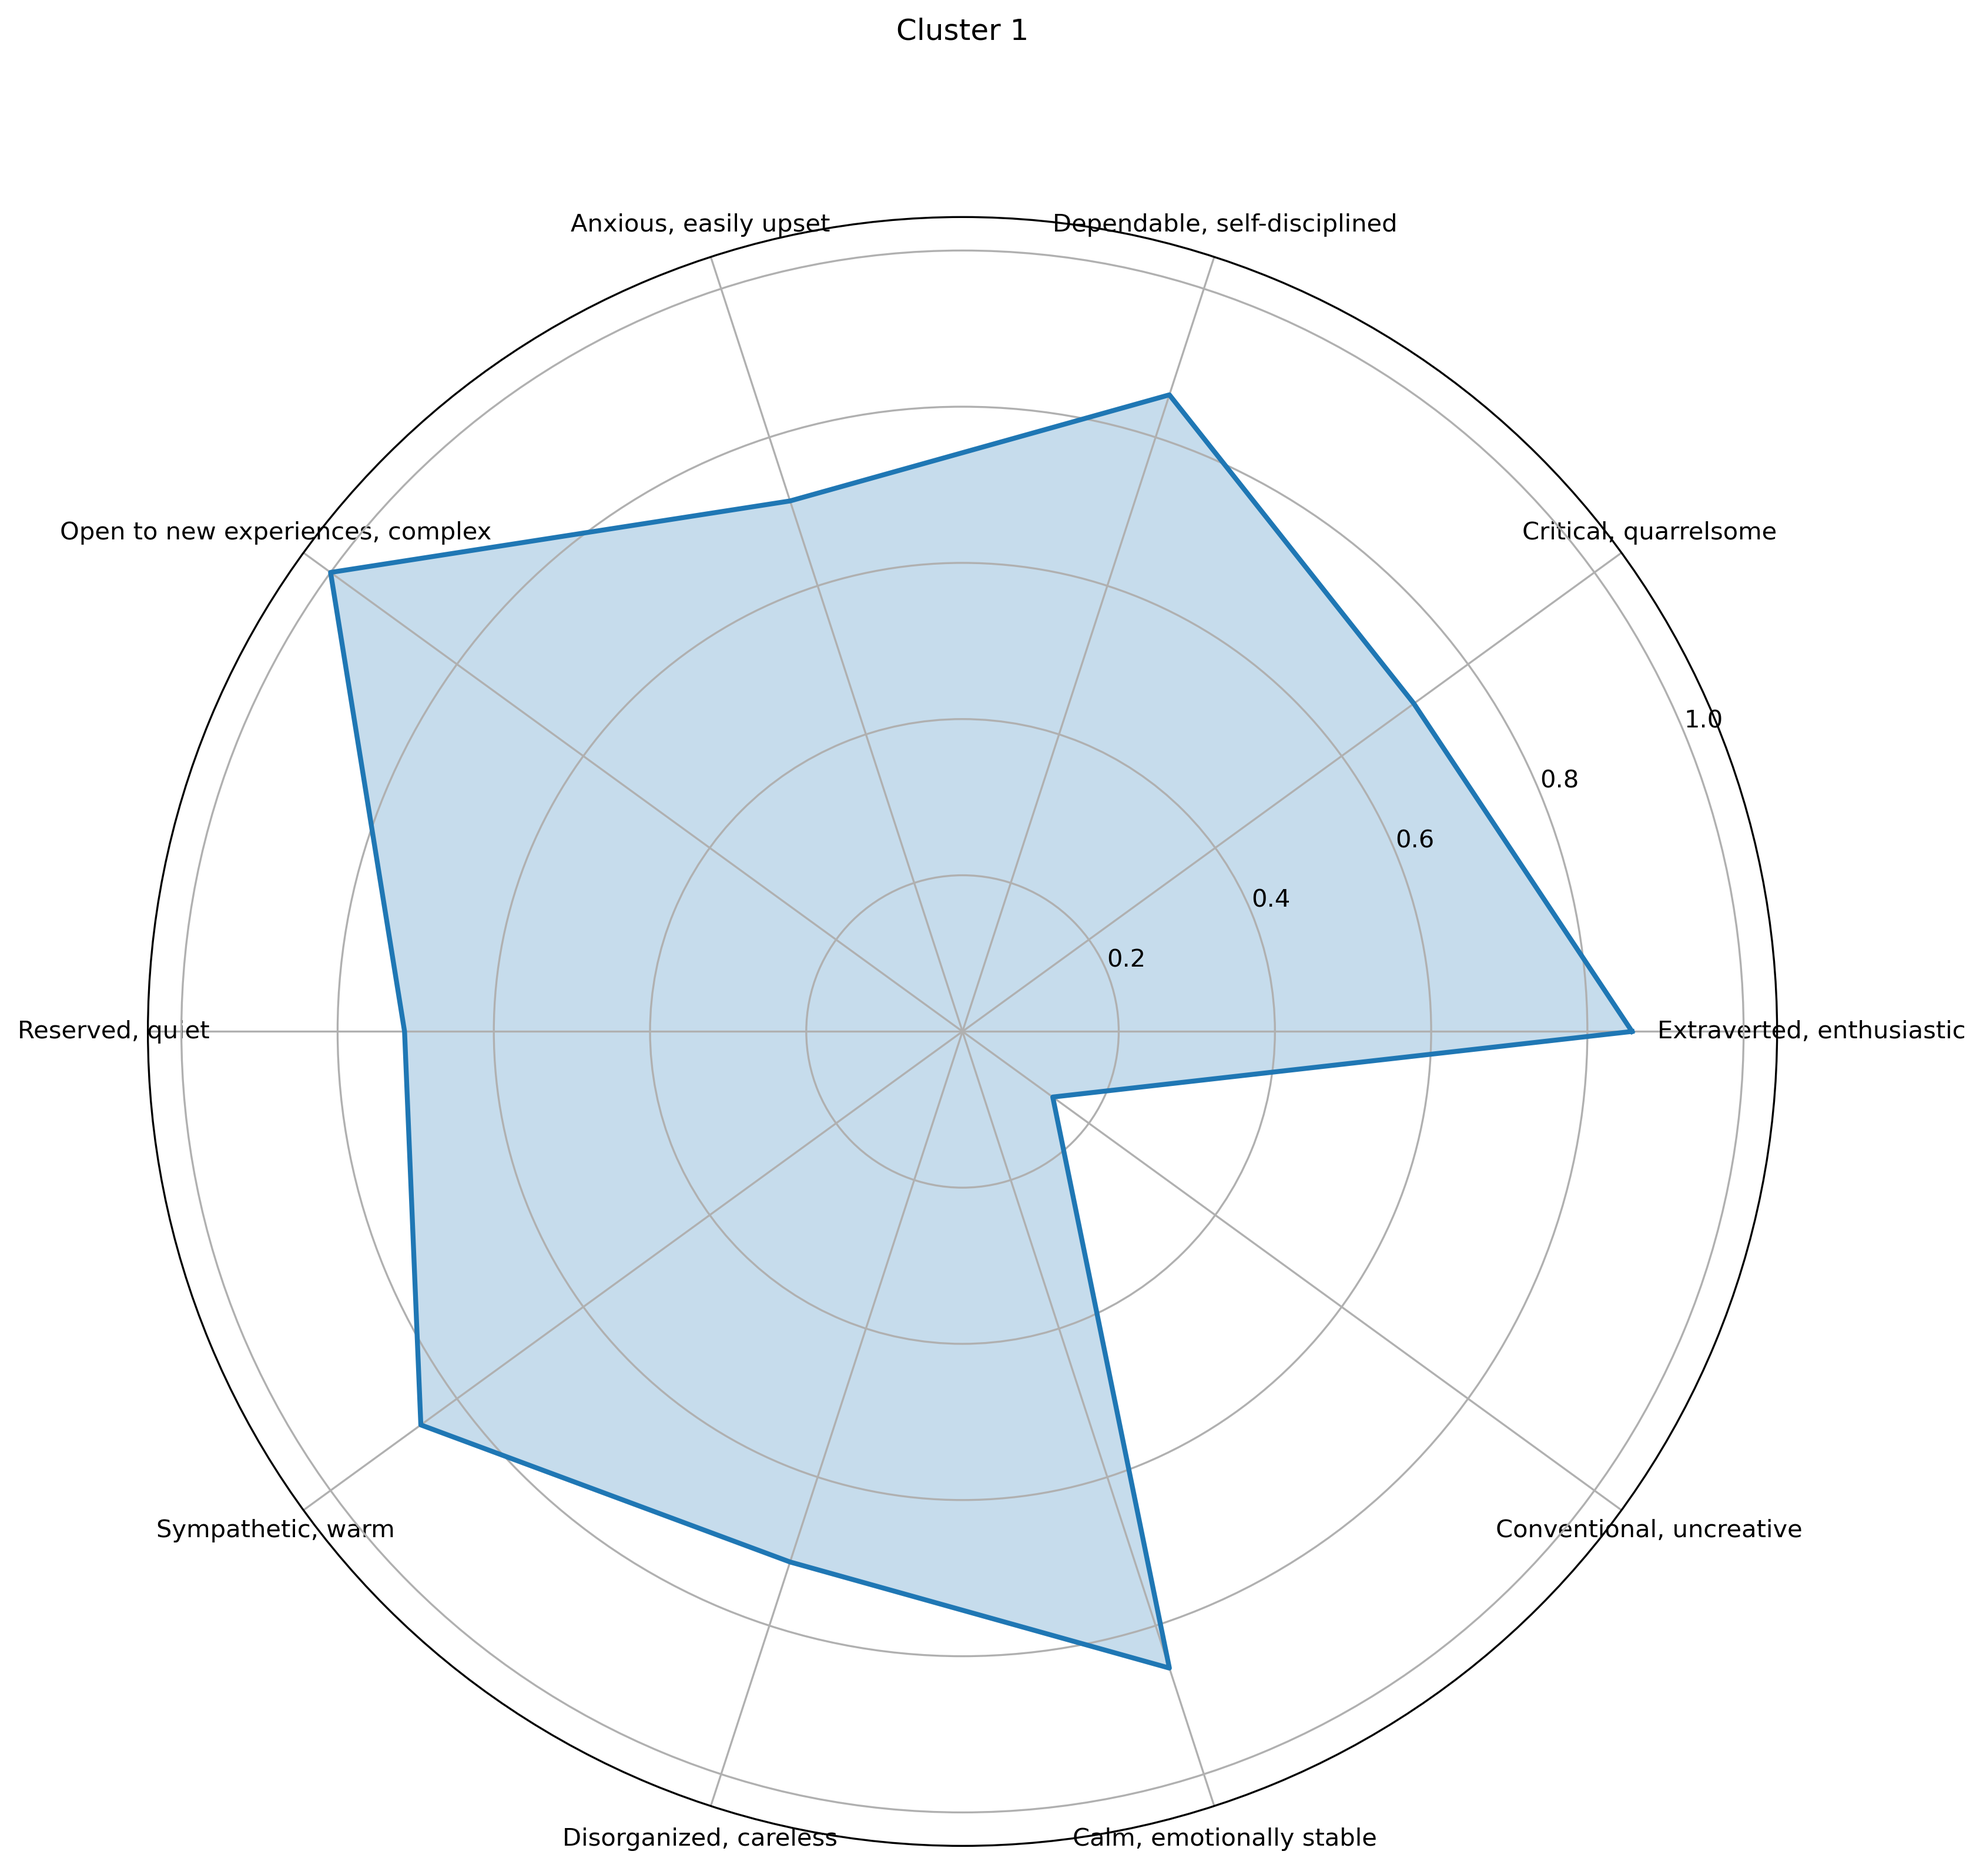
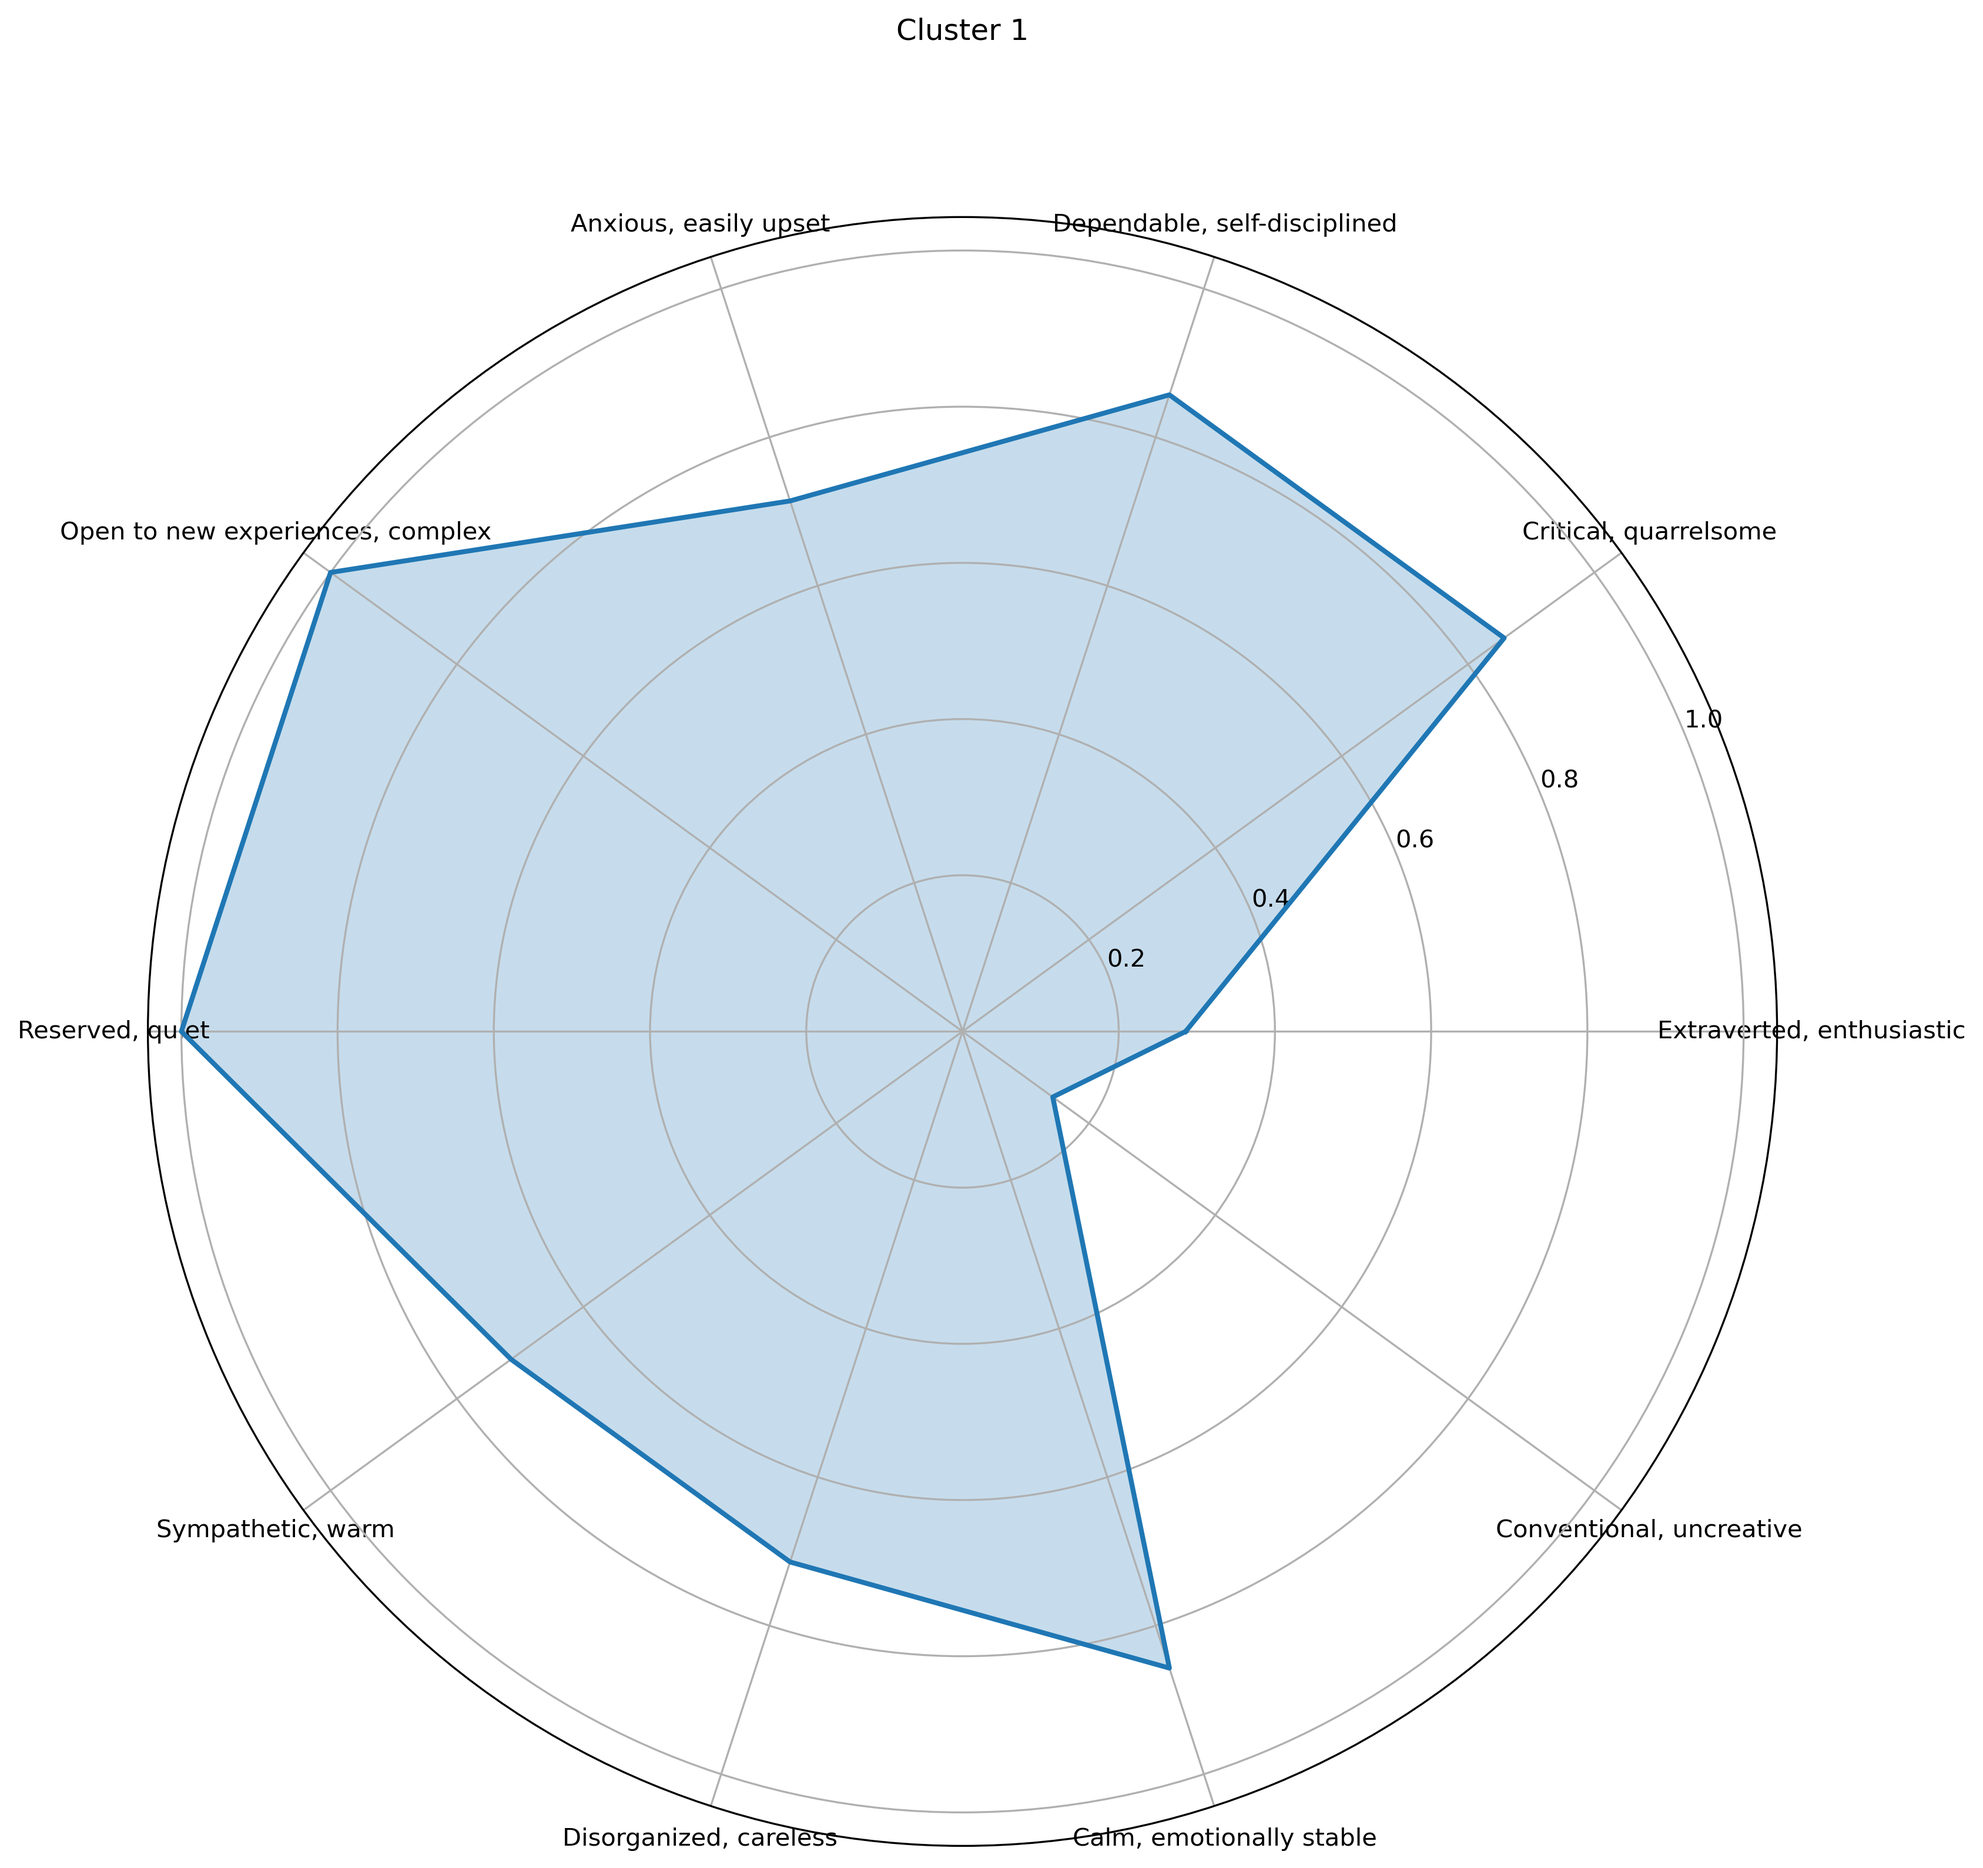
Added correct radar plots for hierarchical clustering, fixed a small wording issue

Changed region(s): [[0.0934, 0.3114, 0.4046, 0.8408], [0.529, 0.218, 0.8402, 0.5917]]

diff --git a/docs/index.html b/docs/index.html
@@ -325,29 +325,29 @@
           <br>Below are three radar plots representing the <strong>Ten Item Personality Inventory (TIPI) personality responses</strong> for each of the three clusters identified using hierarchical clustering with Ward linkage. Each plot illustrates the <strong>distinct personality response characteristics of each cluster</strong>, providing insights into the varying levels of Machiavellian traits among participants.<br><br>
         </p>
         <p>
-          An important item to consider is the line between low and high Machiavellianism is not very thin according to our research. It it clear that a more in-depth analysis would be required to full understand the nuances of Machiavellian traits across individuals. However, these plots provide a foundational understanding of how different personality traits cluster together in relation to Machiavellianism.<br><br>
+          An important item to consider is the line between low and high Machiavellianism is not very clear according to our research. It it clear that a more in-depth analysis would be required to full understand the nuances of Machiavellian traits across individuals. However, these plots provide a foundational understanding of how different personality traits cluster together in relation to Machiavellianism.<br><br>
         </p>
         <div class="plot-block-horizontal">
           <figure>
             <div class="plot-placeholder">
-              <img src="images/hierarchical/Cluster_0.png" alt="Radar plot showing average item responses for cluster 0 using hierarchical clustering with Ward linkage">
+              <img src="images/hierarchical/Cluster_2.png" alt="Radar plot showing average item responses for cluster 2 using hierarchical clustering with Ward linkage">
             </div>
             <figcaption>
-              Cluster 0 represents <strong>low-Machiavellian</strong> individuals who score high in conscientiousness and emotional stability while remaining warm, calm, and cooperative. Their profile reflects a trusting and disciplined personality with little inclination toward manipulation. This group tends to value honesty, structure, and positive social relationships.
+              Cluster 2 represents <strong>low-Machiavellian</strong> individuals who score high in conscientiousness and emotional stability while remaining warm, calm, and cooperative. Their profile reflects a trusting and disciplined personality with little inclination toward manipulation. This group tends to value honesty, structure, and positive social relationships.
+          </figure>
+          <figure>
+            <div class="plot-placeholder">
+              <img src="images/hierarchical/Cluster_3.png" alt="Radar plot showing average item responses for cluster 3 using hierarchical clustering with Ward linkage">
+            </div>
+            <figcaption>
+              Cluster 3 shows a moderate, balanced personality profile with no extreme traits in any direction. These individuals fall in the <strong>middle of the Machiavellian</strong> spectrum and demonstrate flexible, context-dependent behavior. They are neither strongly manipulative nor strongly moralistic.
           </figure>
           <figure>
             <div class="plot-placeholder">
               <img src="images/hierarchical/Cluster_1.png" alt="Radar plot showing average item responses for cluster 1 using hierarchical clustering with Ward linkage">
             </div>
             <figcaption>
-              Cluster 1 shows a moderate, balanced personality profile with no extreme traits in any direction. These individuals fall in the <strong>middle of the Machiavellian</strong> spectrum and demonstrate flexible, context-dependent behavior. They are neither strongly manipulative nor strongly moralistic.
-          </figure>
-          <figure>
-            <div class="plot-placeholder">
-              <img src="images/hierarchical/Cluster_2.png" alt="Radar plot showing average item responses for cluster 2 using hierarchical clustering with Ward linkage">
-            </div>
-            <figcaption>
-              Cluster 2 reflects <strong>high-Machiavellian</strong> tendencies characterized by low warmth, high criticalness, strong emotional control, and strategic thinking. These individuals display traits associated with competitiveness, manipulation, and a pragmatic worldview. Their combination of low agreeableness and high conscientiousness aligns with classic Mach personality patterns.
+              Cluster 1 reflects <strong>high-Machiavellian</strong> tendencies characterized by low warmth, high criticalness, strong emotional control, and strategic thinking. These individuals display traits associated with competitiveness, manipulation, and a pragmatic worldview. Their combination of low agreeableness and high conscientiousness aligns with classic Mach personality patterns.
           </figure>
         </div>
       </div>
